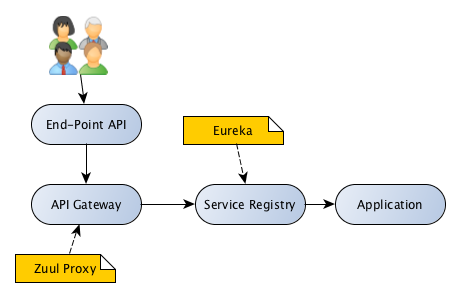
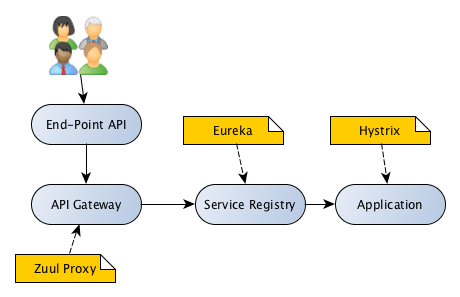
enabled hystrix

Changed region(s): [[0.7, 0.3636, 0.9435, 0.6061]]

diff --git a/example-app-two/src/main/java/com/wengnermiro/app/two/AppMain.java b/example-app-two/src/main/java/com/wengnermiro/app/two/AppMain.java
@@ -32,6 +32,7 @@
 
 package com.wengnermiro.app.two;
 
+import com.netflix.hystrix.contrib.javanica.annotation.HystrixCommand;
 import com.wengnermiro.app.two.config.AppConfig;
 import com.wengnermiro.commons.CommonFeature;
 import com.wengnermiro.commons.dto.BasicStatus;
@@ -41,6 +42,7 @@ import org.springframework.beans.factory.annotation.Autowired;
 import org.springframework.boot.SpringApplication;
 import org.springframework.boot.autoconfigure.EnableAutoConfiguration;
 import org.springframework.boot.context.properties.EnableConfigurationProperties;
+import org.springframework.cloud.client.circuitbreaker.EnableCircuitBreaker;
 import org.springframework.cloud.netflix.eureka.EnableEurekaClient;
 import org.springframework.context.annotation.Import;
 import org.springframework.core.ParameterizedTypeReference;
@@ -48,6 +50,7 @@ import org.springframework.http.HttpEntity;
 import org.springframework.http.HttpHeaders;
 import org.springframework.http.HttpMethod;
 import org.springframework.http.ResponseEntity;
+import org.springframework.stereotype.Service;
 import org.springframework.web.bind.annotation.RequestBody;
 import org.springframework.web.bind.annotation.RequestMapping;
 import org.springframework.web.bind.annotation.RequestMethod;
@@ -67,6 +70,7 @@ import static org.springframework.http.MediaType.APPLICATION_JSON_VALUE;
  *
  * @author Miroslav Wengner (@miragemiko)
  */
+@EnableCircuitBreaker
 @EnableEurekaClient
 @RestController
 @EnableAutoConfiguration
@@ -90,11 +94,13 @@ public class AppMain {
     }
 
     private final RestTemplate restTemplate;
+    private final HystrixSampleService hystrixSampleService;
 
     @Autowired
-    public AppMain(final RestTemplate restTemplate) {
+    public AppMain(final RestTemplate restTemplate, final HystrixSampleService hystrixSampleService) {
         active = true;
         this.restTemplate = restTemplate;
+        this.hystrixSampleService = hystrixSampleService;
     }
 
     @RequestMapping(method =
@@ -124,6 +130,15 @@ public class AppMain {
         return extendedData;
     }
 
+    @RequestMapping(value = "/fail", method =
+            RequestMethod.GET,
+            produces = {APPLICATION_JSON_VALUE},
+            consumes = {APPLICATION_JSON_VALUE})
+    @ResponseBody
+    public DataStatus failGet() {
+        return hystrixSampleService.getData();
+    }
+
     @RequestMapping(value = "/add", method =
             RequestMethod.POST,
             produces = {APPLICATION_JSON_VALUE},
@@ -135,13 +150,37 @@ public class AppMain {
     }
 
 
-    private ResponseEntity<DataStatus> requestDataGet(RestTemplate restTemplate, String url, Object... vars) {
+    private static  ResponseEntity<DataStatus> requestDataGet(RestTemplate restTemplate, String url, Object... vars) {
         HttpHeaders header = new HttpHeaders();
         header.add(CONTENT_TYPE, APPLICATION_JSON_VALUE);
         HttpEntity<DataStatus> httpEntity = new HttpEntity<>(header);
         return restTemplate.exchange(url, HttpMethod.GET,
                 httpEntity, new ParameterizedTypeReference<DataStatus>() {
                 }, vars);
+
+    }
+
+    @Service
+    public static class HystrixSampleService {
+        private final RestTemplate restTemplate;
+
+        @Autowired
+        public HystrixSampleService(RestTemplate restTemplate) {
+            this.restTemplate = restTemplate;
+        }
+
+        @HystrixCommand(fallbackMethod = "failFast")
+        public DataStatus getData() {
+            ResponseEntity<DataStatus> responseData = requestDataGet(restTemplate, "http://example-app-one/one/notvalid");
+            return responseData.getBody();
+        }
+
+        public DataStatus failFast() {
+            DataStatus dataStatus = new DataStatus();
+            dataStatus.setSuccess(false);
+            dataStatus.setMessagge("FailFast");
+            return dataStatus;
+        }
 
     }
 }

diff --git a/README.md b/README.md
@@ -6,9 +6,11 @@ in order to demonstrate features offered by spring-cloud.
 ##### Schema:
 ![Project Schema](ServiceSchema_1.png "Project Schema")  
 
-services: 
+considered services: 
 - Eureka - service discovery
 - Zuul - reverse proxy, intelligent routing
+- Hystrix - Circuit breaker pattern
+- Load balancing
 
 ### requirements
 project uses Maven build system and Java 11. 
